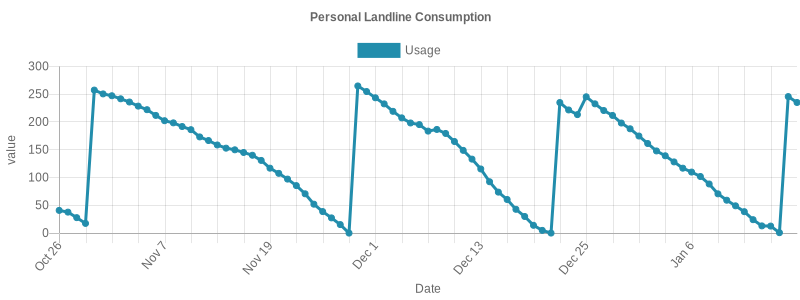
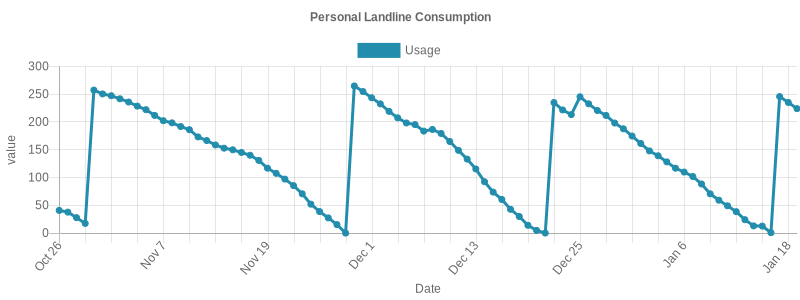
update logs

diff --git a/quota-logs/README.md b/quota-logs/README.md
@@ -83,3 +83,4 @@
 ## Tue Jan 16 2024 00:35:14 GMT+0200|0.74/308
 ## Wed Jan 17 2024 00:35:16 GMT+0200|245.71/298
 ## Thu Jan 18 2024 00:35:10 GMT+0200|235.08/298
+## Fri Jan 19 2024 00:35:13 GMT+0200|223.96/298
